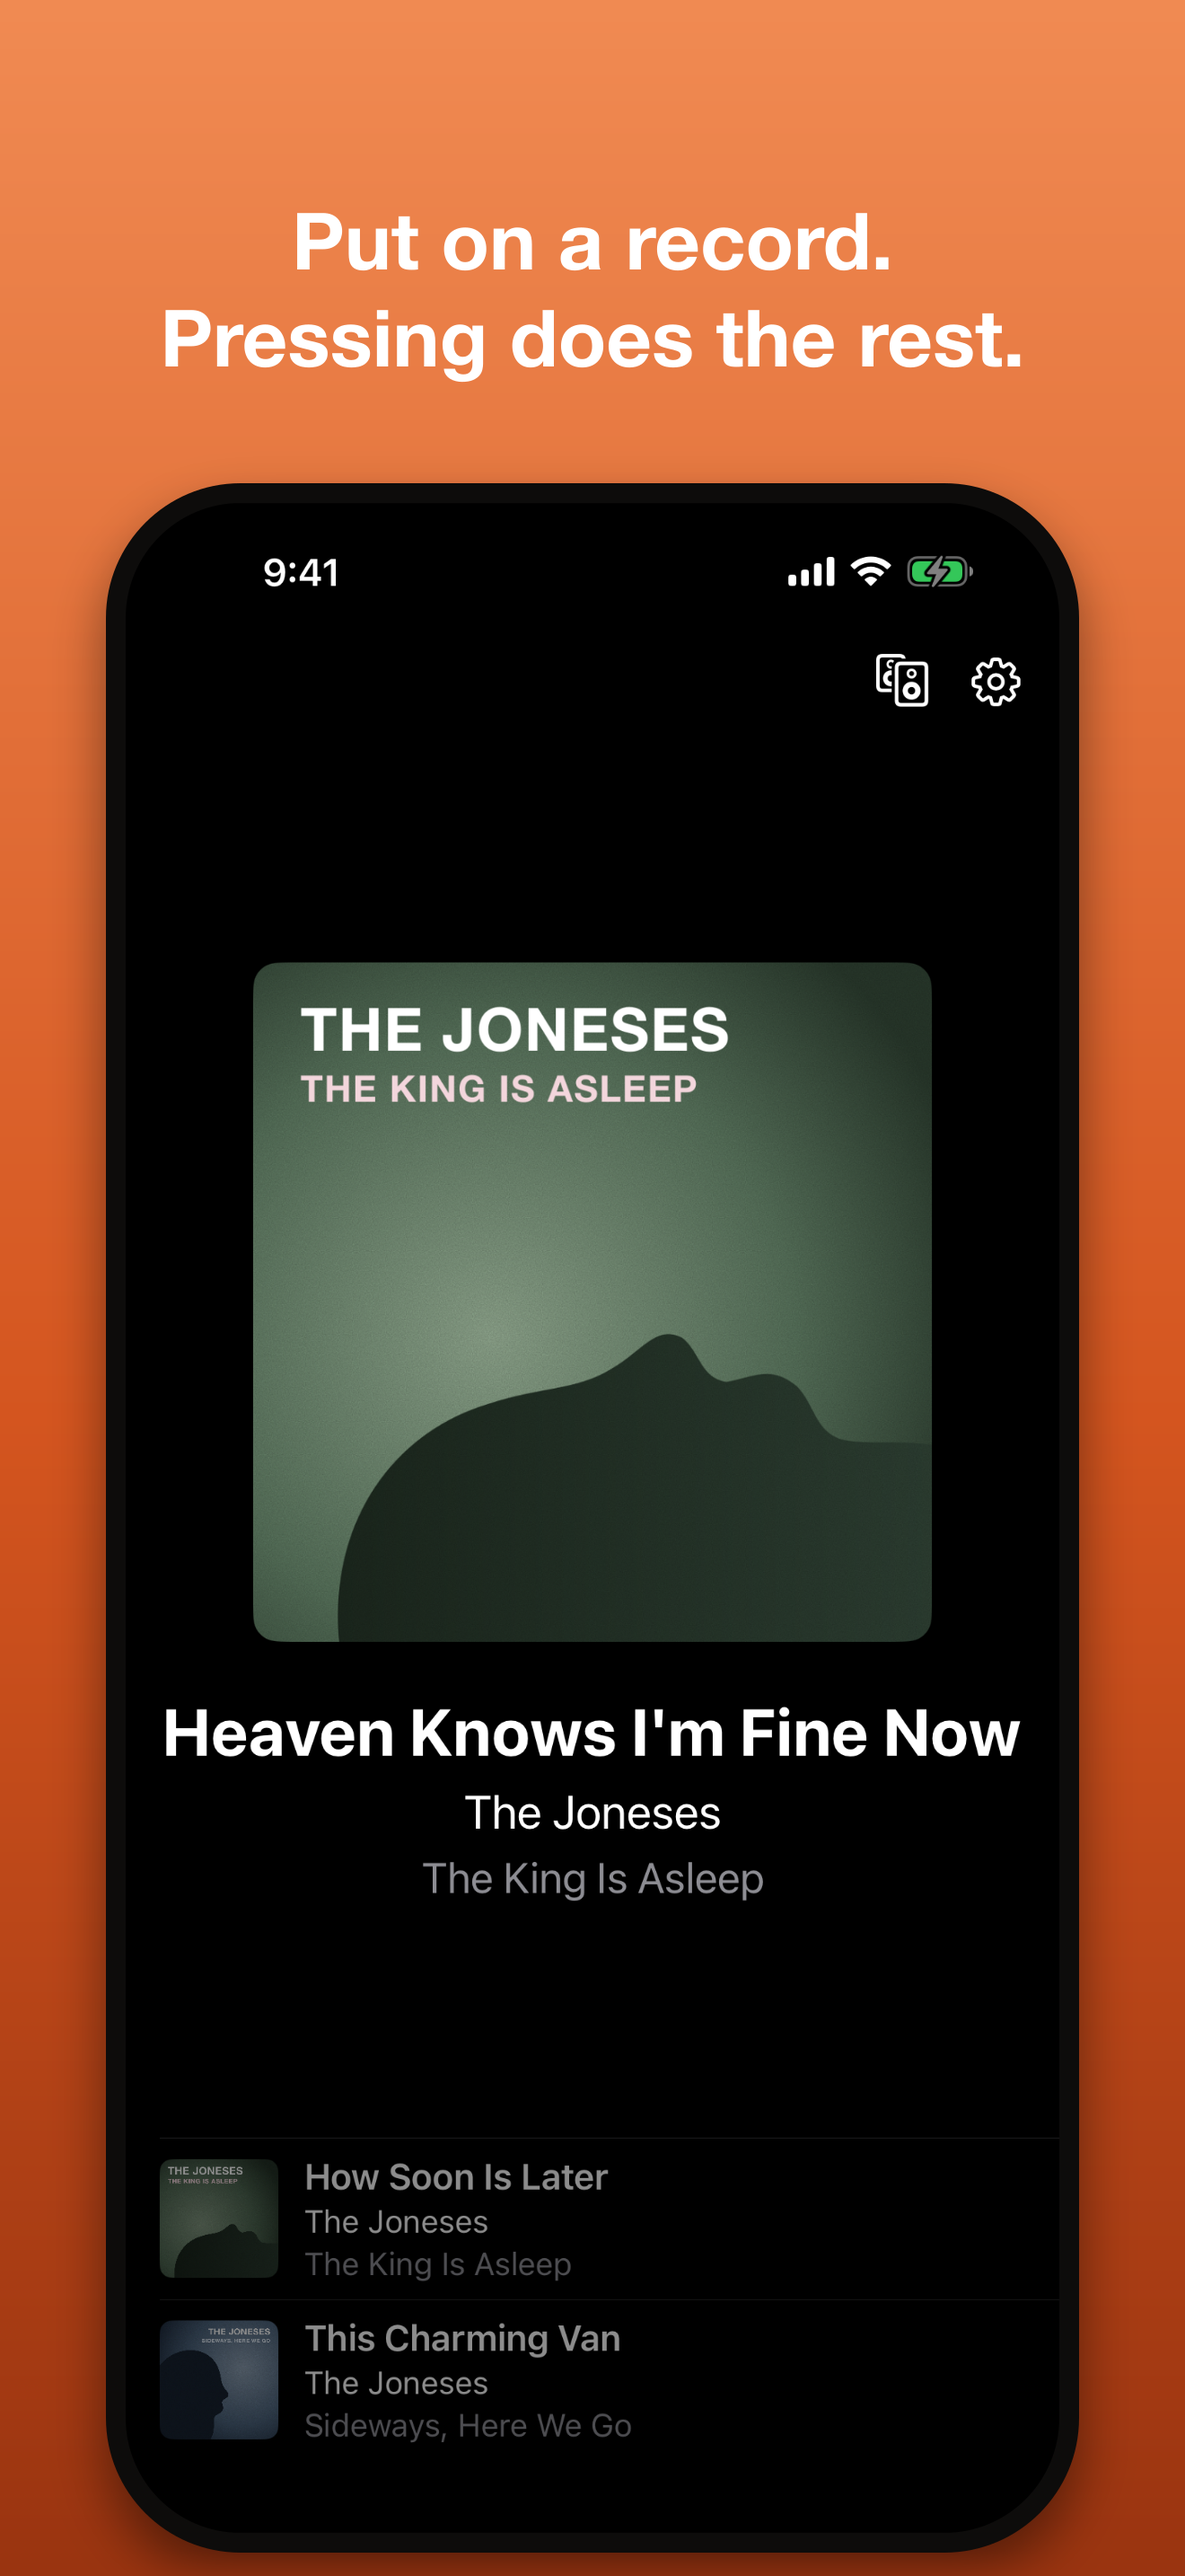
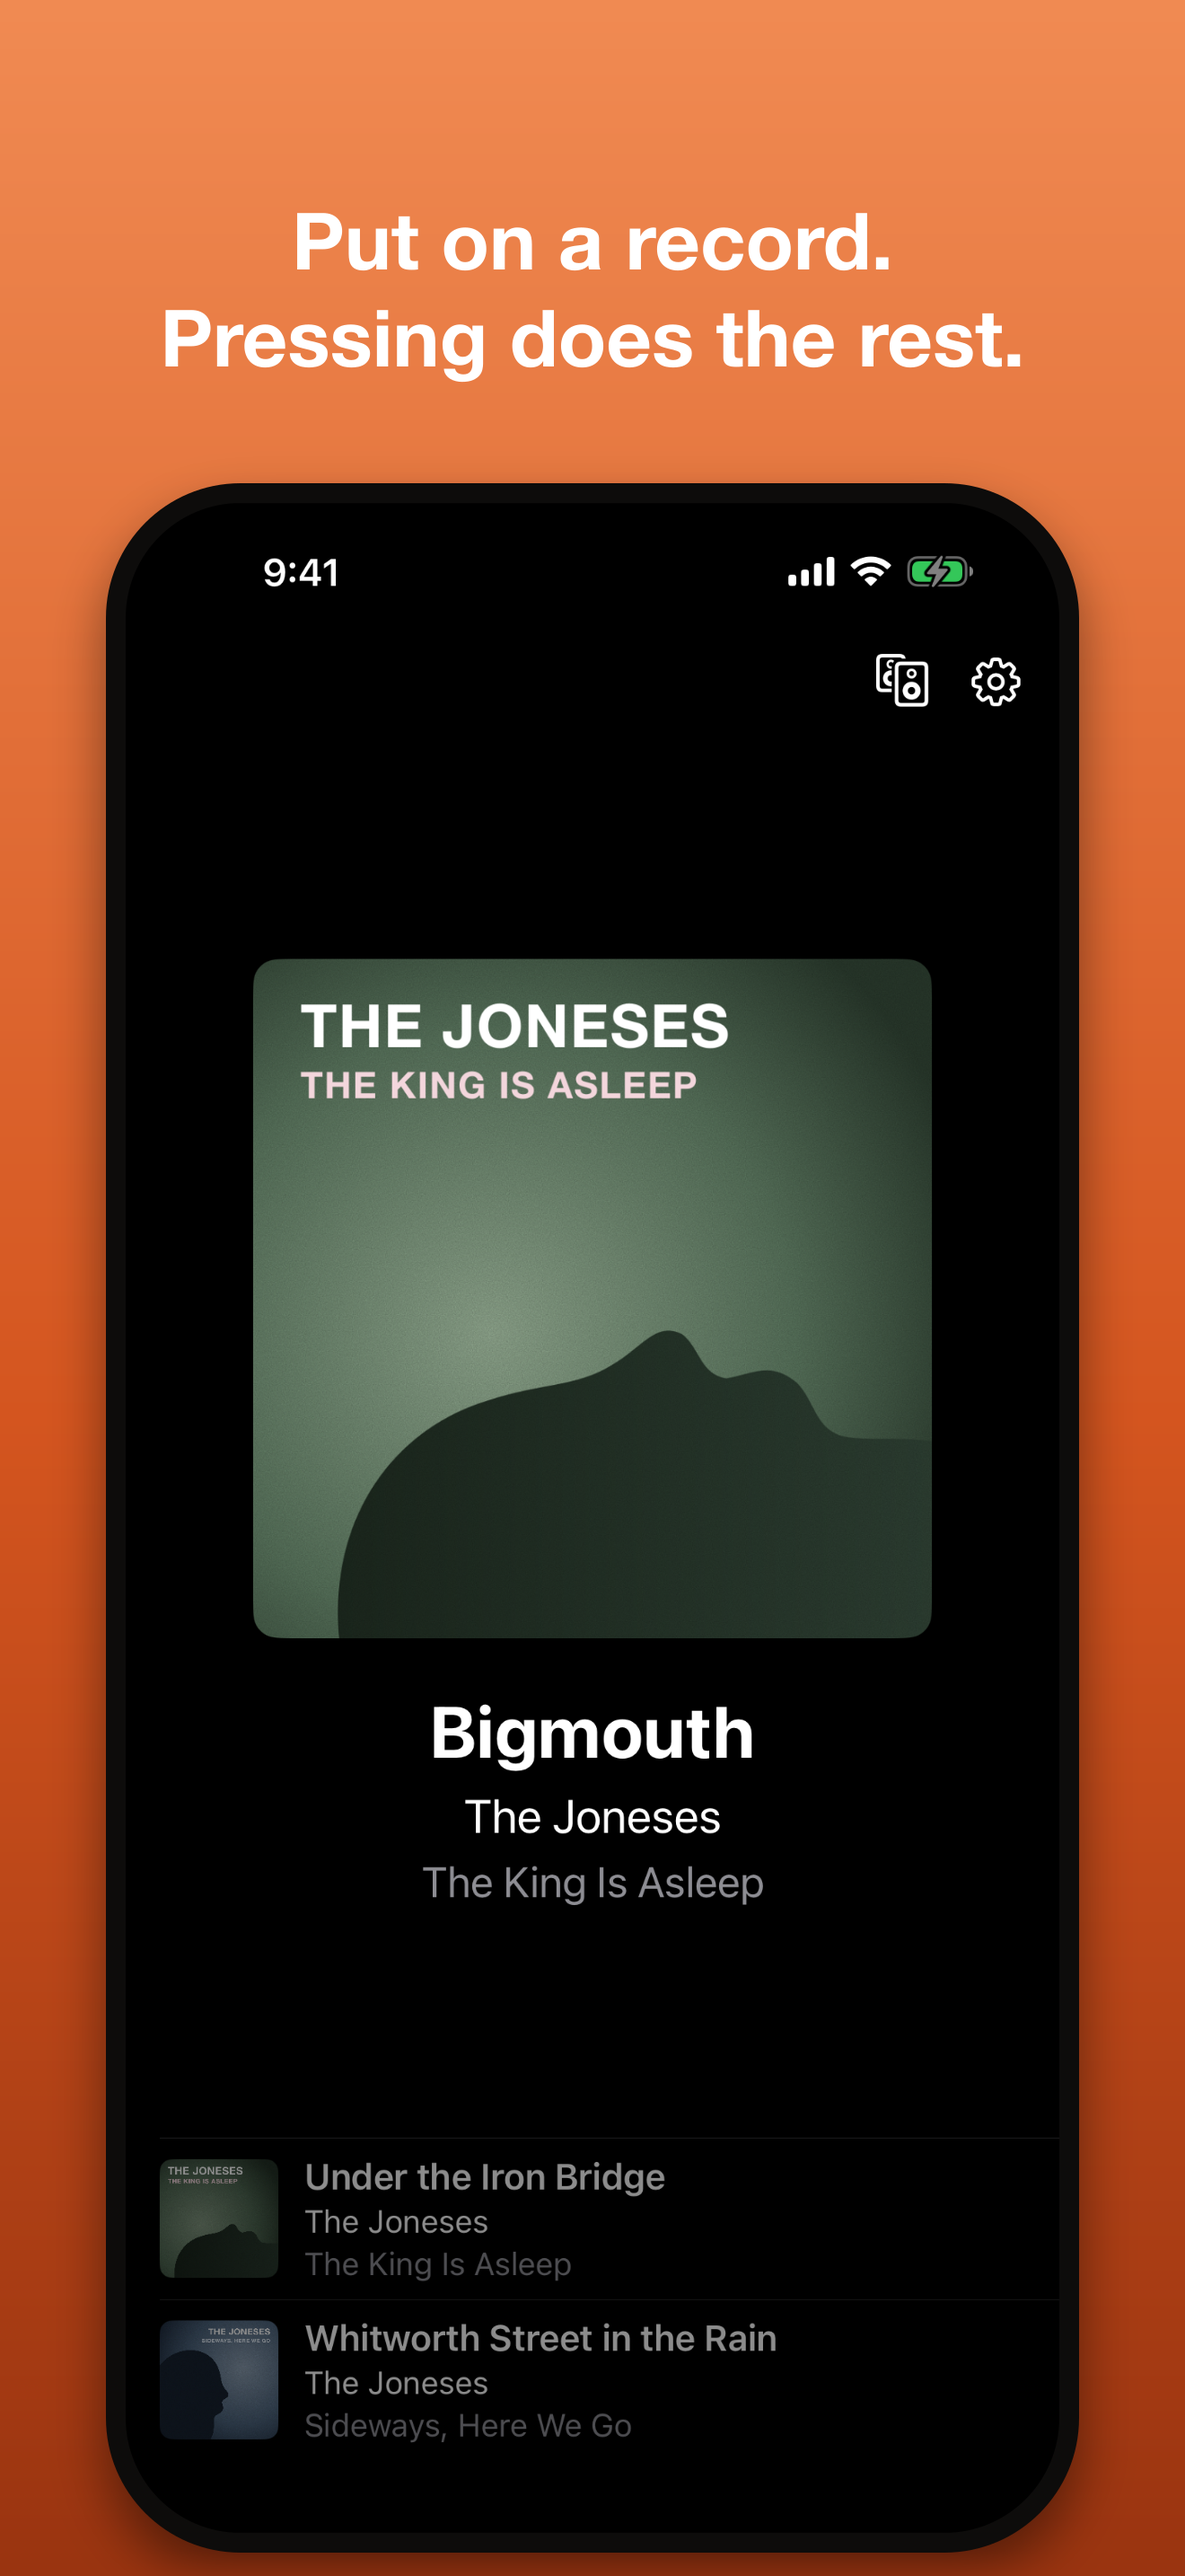
Start screen: ROUGH 96 on the record's label; App Store: sincere Track titles
The start screen's record now carries "ROUGH 96 B-1U-1-1" faintly round its
label, a nod to The Queen Is Dead; the icon and the grey cover don't. The
sample Tracks drop the puns: Bigmouth is playing, and the rest are plain
titles in the band's mood. The screenshot hook takes only the fakes it needs
and its own silent MenuServer, so Pressing Menu's fakes don't reach the app.

diff --git a/AppStore/Hook/ScreenshotDemo.swift b/AppStore/Hook/ScreenshotDemo.swift
@@ -59,7 +59,8 @@ enum ScreenshotDemo {
             sonos: sonos.network, streamSink: FakeStreamSink(), encoder: PassThroughEncoder(),
             phoneOutput: FakePhoneOutput(), recognizer: recognizer, artwork: artwork,
             lastFm: LastFmPorts(account: .test, http: lastFm, webAuth: FakeWebAuth(),
-                                keychain: FakeKeychain(session: LastFmSession(username: demo.lastFmUsername, key: "K")))
+                                keychain: FakeKeychain(session: LastFmSession(username: demo.lastFmUsername, key: "K"))),
+            menuServer: SilentMenuServer()
         )
         keep = [input, sonos, store, recognizer, artwork, lastFm]
         DispatchQueue.main.asyncAfter(deadline: .now() + 0.5) {
@@ -79,4 +80,13 @@ enum ScreenshotDemo {
         }
         return pressing
     }
+}
+
+/// No Pressing Menu on the Mac: the screenshots don't show one.
+@MainActor
+private final class SilentMenuServer: MenuServer {
+    func setEventHandler(_ handler: @escaping @MainActor (MenuServerEvent) -> Void) {}
+    func start() {}
+    func stop() {}
+    func send(_ message: Data, to client: MenuClientID) {}
 }

diff --git a/AppStore/README.md b/AppStore/README.md
@@ -43,9 +43,11 @@ App Store Connect needs only the 6.9" set for an iPhone-only app; it scales it d
 - The band is **The Joneses**: the other everyman surname.
 - The hero album, **The King Is Asleep**, answers *The Queen Is Dead*. Its sleeve follows that one's formula: a single-colour green still of a man lying on his back, the band name in white and the title in pale pink above. It's drawn from scratch; no part of the original sleeve or its photograph is used.
 - The other sleeves follow the Smiths singles' formula, a tinted "cover star" still in one colour with the name in plain white capitals: *Sideways, Here We Go* (blue; *Strangeways, Here We Come*), *Quieter Than Moths* (rose; *Louder Than Bombs*), *Hatful of Borrow* (ochre; *Hatful of Hollow*).
-- The Track titles bend Smiths titles: *Heaven Knows I'm Fine Now*, *How Soon Is Later*, *This Charming Van*, *Ask Me Twice*, *Still Fine*, *Garden Gates*, *Panic on the Escalator*, *Bigmouth Strikes Twice*, *Hat in Hand*.
+- The Track playing is *Bigmouth*, leaning on *Bigmouth Strikes Again*, the single from *The Queen Is Dead*.
+- The other Track titles are plain and sincere, not puns: Manchester streets, buses, rain and Sundays, in the band's mood rather than its words. *Under the Iron Bridge*, *Whitworth Street in the Rain*, *A Coat Too Thin for March*, *The Last Bus Out of Salford*, *Nobody Calls on Sundays*, *Bicycles in the Hallway*, *Late Light on the Canal*, *Letters I Never Sent*.
+- The start screen's record (not the icon, and not the grey cover on Now Playing) has "ROUGH 96 B-1U-1-1" printed faintly round its label: *The Queen Is Dead*'s Rough Trade catalogue number. It lives in `Design/StartScreen.svg`.
 
-Keep it to nods. A real band name, a real title or anything traced from a real sleeve would undo the point of inventing them.
+Keep it to nods. A real band name, a full real title or anything traced from a real sleeve would undo the point of inventing them.
 
 **The input is "USB Audio".** A generic name fits any deck or interface, where a brand name like "Numark TT USB" would suggest one model is required. Settings shows it as "USB Audio (USB)".
 

diff --git a/README.md b/README.md
@@ -171,7 +171,7 @@ The artwork shows a vinyl record with an orange label, and a record-cleaning bru
 | Source | Used as |
 |---|---|
 | [`Design/AppIcon.svg`](Design/AppIcon.svg) | The app icon. |
-| [`Design/StartScreen.svg`](Design/StartScreen.svg) | The start screen and the launch screen: the icon's artwork with the orange extended upwards and the record anchored at the bottom. It's sized at 450 × 972 pt, so it covers every iPhone. The launch screen shows it at the same size and position, so the app opens without a jump. |
+| [`Design/StartScreen.svg`](Design/StartScreen.svg) | The start screen and the launch screen: the icon's artwork with the orange extended upwards and the record anchored at the bottom. It's sized at 450 × 972 pt, so it covers every iPhone. Its label, unlike the icon's, carries a faint catalogue number, "ROUGH 96 B-1U-1-1". The launch screen shows it at the same size and position, so the app opens without a jump. |
 | [`Design/NoTrackCover.svg`](Design/NoTrackCover.svg) | The cover on Now Playing while no Track is identified: the icon in grey. |
 
 The PNGs in `App/Resources/Assets.xcassets` are rendered from these files and are opaque, as iOS requires. After editing an SVG, re-render with `rsvg-convert` and ImageMagick (`brew install librsvg imagemagick`):
@@ -185,7 +185,7 @@ rsvg-convert -w 960 -h 960 Design/NoTrackCover.svg | magick - -alpha remove -alp
   App/Resources/Assets.xcassets/NoTrackCover.imageset/NoTrackCover@3x.png
 ```
 
-`Design/StartScreen.svg` and `Design/NoTrackCover.svg` are derived from the icon. If the icon changes, regenerate them too.
+`Design/StartScreen.svg` and `Design/NoTrackCover.svg` are derived from the icon. If the icon changes, regenerate them too, and keep the catalogue number on the start screen's label only.
 
 ## Development
 
